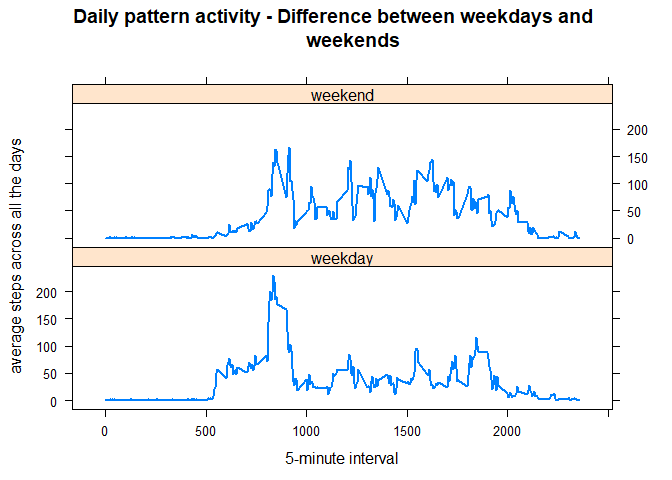
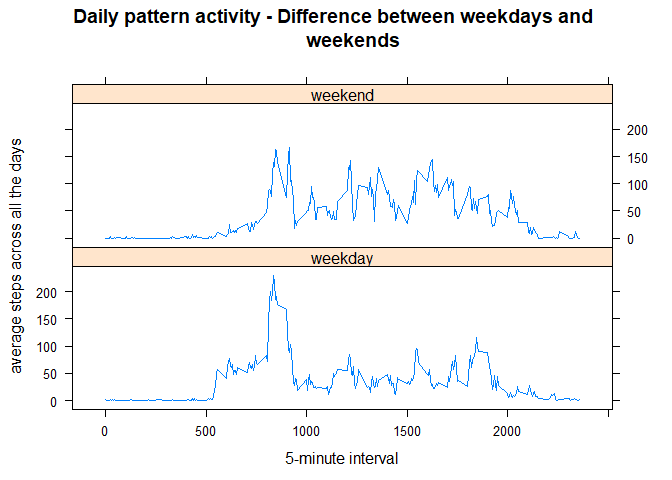
z

diff --git a/PA1_template.html b/PA1_template.html
@@ -464,12 +464,12 @@ library(dplyr)</code></pre>
        xlab = &quot;5-minute interval&quot;, 
        ylab = &quot;average steps across all the days&quot;,
        type =&quot;l&quot;,
-       lwd= 2,
+       lwd= 1,
        layout = c(1, 2),
        main = &quot;Daily pattern activity - Difference between weekdays and 
        weekends&quot;
 )</code></pre>
[2 lines of base64/hex data omitted]
 </div>
 
 

diff --git a/PA1_template.md b/PA1_template.md
@@ -226,7 +226,7 @@ xyplot(meansteps ~ interval | weektype,
        xlab = "5-minute interval", 
        ylab = "average steps across all the days",
        type ="l",
-       lwd= 2,
+       lwd= 1,
        layout = c(1, 2),
        main = "Daily pattern activity - Difference between weekdays and 
        weekends"
